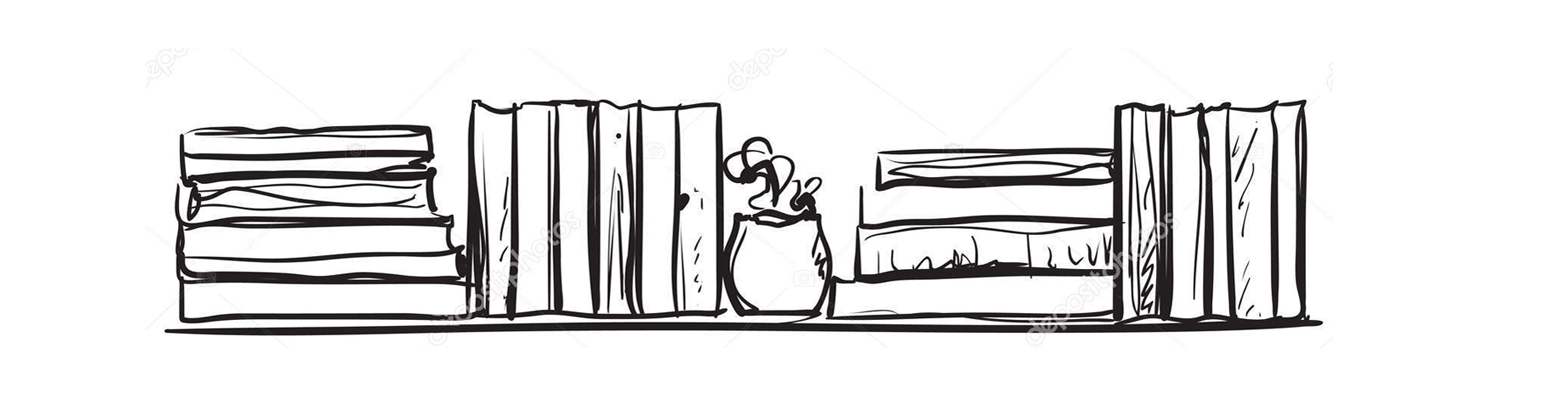
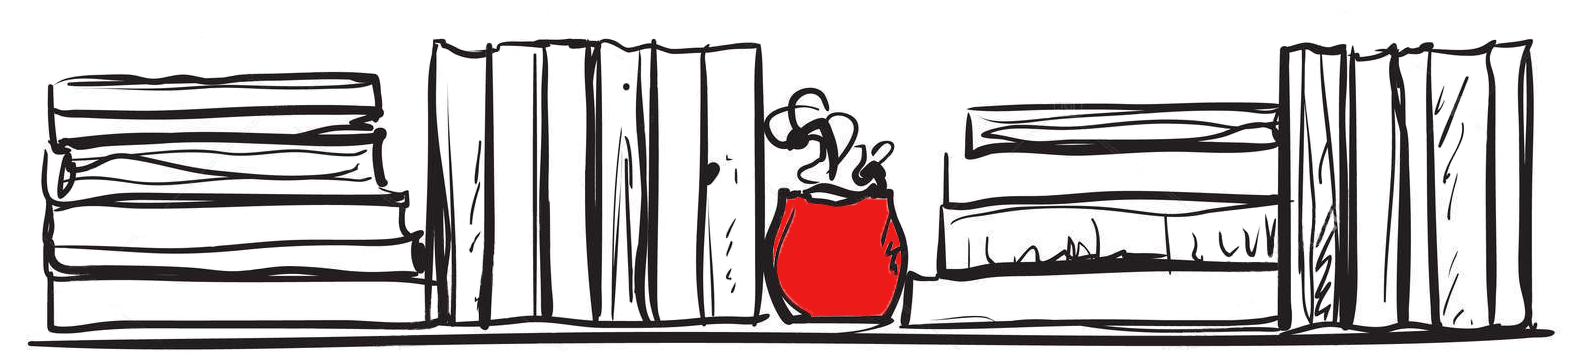
Adding shelf template to index.hbs

diff --git a/public/stylesheets/style.css b/public/stylesheets/style.css
@@ -18,9 +18,13 @@ html,body {
 }
 
 
-#Name {
-  padding-left: 50vh;
+#Name{
   font-family: 'Shadows Into Light', cursive;
-  color: white;
-  font-size: 400%;
+}
+
+#shelf {
+
+  width: 85%;
+  height: auto;
+  
 }
